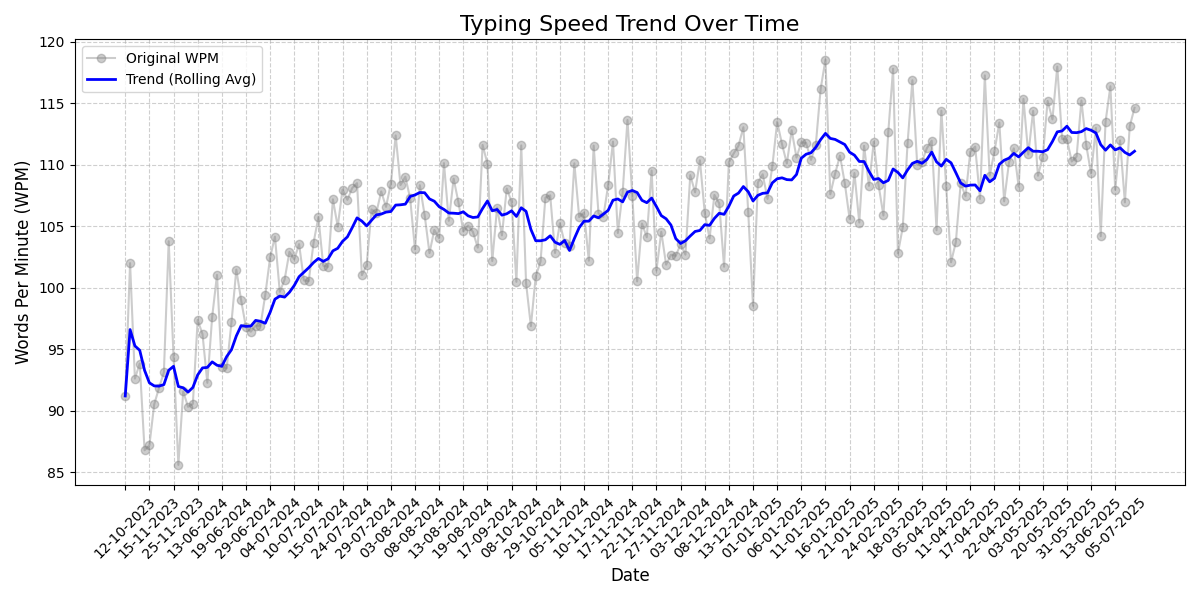
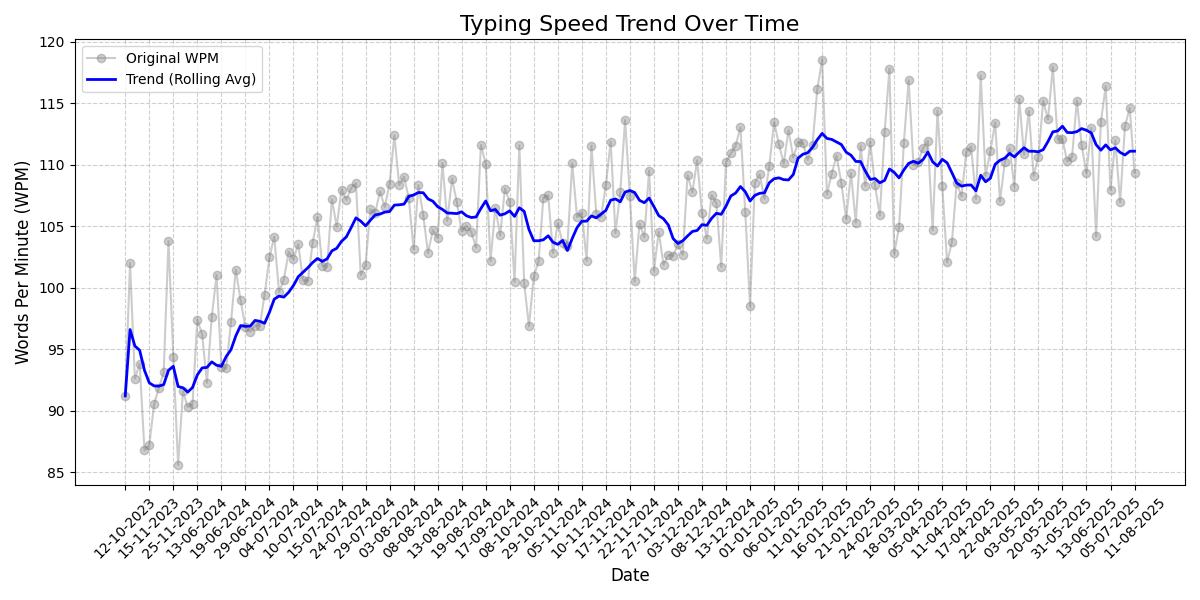
Update README with new stats (12/08/2025 20:19)

Changed region(s): [[0.185, 0.09, 0.9558, 0.6], [0.1233, 0.81, 0.9867, 0.93], [0.1542, 0.6, 0.185, 0.66]]

diff --git a/README.md b/README.md
@@ -4,16 +4,16 @@
 
 
         
-## Typing History Stats (Last Updated: 16/07/2025 20:10)
+## Typing History Stats (Last Updated: 12/08/2025 20:19)
 
 | **Key Stats**               | **Overall Stats**       | **Last 20 Tests Stats**  |
 |--------------------------|-------------------------|--------------------------|
-| **Total Entries**        | 2009           | 20                       |
-| **Average WPM**          | 106.71           | 113.86    |
-| **Average Accuracy**     | 91.98%          | 93.93%   |
+| **Total Entries**        | 2019           | 20                       |
+| **Average WPM**          | 106.72           | 111.97    |
+| **Average Accuracy**     | 91.98%          | 92.94%   |
 | **Max WPM**              | 132.4               | 124.78        |
-| **Min WPM**              | 64.77               | 96.4                        |
-| **Total Duration**       | 17:03:58        | 00:10:00                        |
+| **Min WPM**              | 64.77               | 100.72                        |
+| **Total Duration**       | 17:08:58        | 00:10:00                        |
 
 
 ---
@@ -22,18 +22,18 @@
 
 | | WPM | Accuracy | Consistency | Mode | Date |
 | --- | --- | -------- | ----------- | ---- | --------- |
-| 1 | 119.16 | 94.01 | 88.01 | time 30 | 16-07-2025 17:12:11 |
-| 2 | 119.2 | 96.57 | 84.33 | time 30 | 16-07-2025 17:11:36 |
-| 3 | 120.4 | 95.71 | 83.08 | time 30 | 16-07-2025 17:10:45 |
-| 4 | 111.17 | 90.52 | 86.12 | time 30 | 16-07-2025 17:09:52 |
-| 5 | 124.78 | 98.75 | 87.34 | time 30 | 16-07-2025 17:09:06 |
-| 6 | 120.37 | 96.64 | 87.61 | time 30 | 16-07-2025 17:08:12 |
-| 7 | 100.77 | 89.68 | 82.27 | time 30 | 16-07-2025 17:07:18 |
-| 8 | 103.97 | 91.29 | 88.19 | time 30 | 16-07-2025 17:06:38 |
-| 9 | 113.99 | 95.81 | 89.3 | time 30 | 16-07-2025 17:05:57 |
-| 10 | 112.37 | 93.99 | 86.86 | time 30 | 16-07-2025 17:05:17 |
-| 11 | 118.0 | 94.31 | 87.79 | time 30 | 14-07-2025 15:54:15 |
-| 12 | 120.79 | 96.34 | 87.08 | time 30 | 14-07-2025 15:52:40 |
+| 1 | 106.78 | 90.49 | 88.07 | time 30 | 11-08-2025 20:24:06 |
+| 2 | 106.78 | 90.82 | 84.74 | time 30 | 11-08-2025 20:23:17 |
+| 3 | 105.56 | 93.46 | 83.91 | time 30 | 11-08-2025 20:21:09 |
+| 4 | 110.0 | 87.54 | 88.35 | time 30 | 11-08-2025 20:19:47 |
+| 5 | 100.72 | 86.6 | 87.43 | time 30 | 11-08-2025 20:18:38 |
+| 6 | 107.12 | 92.81 | 81.85 | time 30 | 11-08-2025 20:17:58 |
+| 7 | 110.73 | 93.21 | 84.25 | time 30 | 11-08-2025 20:17:24 |
+| 8 | 118.76 | 93.81 | 88.58 | time 30 | 11-08-2025 20:15:37 |
+| 9 | 114.79 | 95.89 | 82.89 | time 30 | 11-08-2025 20:13:12 |
+| 10 | 111.97 | 91.16 | 89.2 | time 30 | 11-08-2025 19:53:39 |
+| 11 | 119.16 | 94.01 | 88.01 | time 30 | 16-07-2025 17:12:11 |
+| 12 | 119.2 | 96.57 | 84.33 | time 30 | 16-07-2025 17:11:36 |
 
 
  --- 
@@ -60,16 +60,16 @@
 
 | | Date | Tests | WPM | Acuracy | Consistency |
 | --- | --- | -------- | ----------- | ---- | --------- |
-| 1 | 2025-07-16 | 10 | 114.62 | 94.3 | 86.31 |
-| 2 | 2025-07-14 | 10 | 113.1 | 93.57 | 85.71 |
-| 3 | 2025-07-13 | 10 | 106.93 | 90.74 | 84.13 |
-| 4 | 2025-07-12 | 10 | 111.97 | 94.53 | 83.36 |
-| 5 | 2025-07-05 | 7 | 107.96 | 91.03 | 85.49 |
-| 6 | 2025-06-25 | 10 | 116.37 | 93.33 | 86.87 |
-| 7 | 2025-06-22 | 10 | 113.49 | 91.56 | 86.22 |
-| 8 | 2025-06-15 | 10 | 104.17 | 91.53 | 84.24 |
-| 9 | 2025-06-14 | 10 | 112.98 | 93.66 | 86.1 |
-| 10 | 2025-06-13 | 10 | 109.28 | 93.25 | 85.08 |
+| 1 | 2025-08-11 | 10 | 109.32 | 91.58 | 85.93 |
+| 2 | 2025-07-16 | 10 | 114.62 | 94.3 | 86.31 |
+| 3 | 2025-07-14 | 10 | 113.1 | 93.57 | 85.71 |
+| 4 | 2025-07-13 | 10 | 106.93 | 90.74 | 84.13 |
+| 5 | 2025-07-12 | 10 | 111.97 | 94.53 | 83.36 |
+| 6 | 2025-07-05 | 7 | 107.96 | 91.03 | 85.49 |
+| 7 | 2025-06-25 | 10 | 116.37 | 93.33 | 86.87 |
+| 8 | 2025-06-22 | 10 | 113.49 | 91.56 | 86.22 |
+| 9 | 2025-06-15 | 10 | 104.17 | 91.53 | 84.24 |
+| 10 | 2025-06-14 | 10 | 112.98 | 93.66 | 86.1 |
 
 
  --- 
